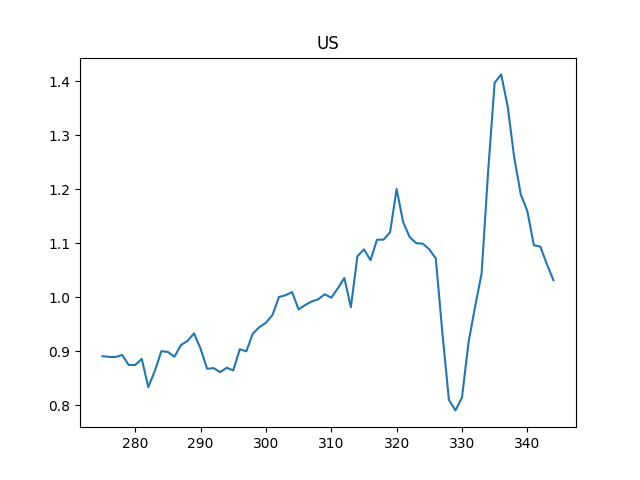
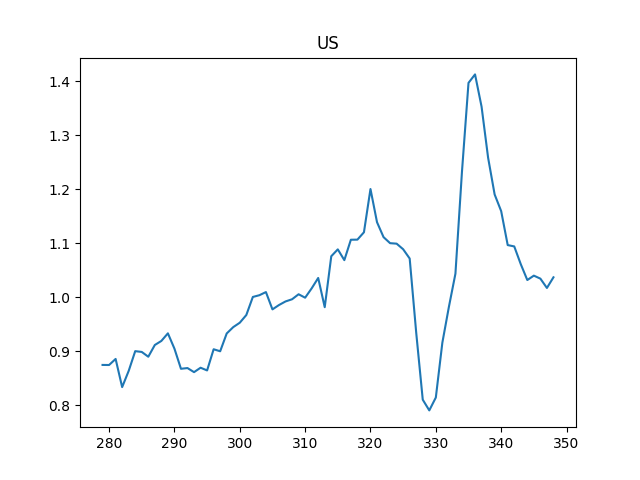
-

diff --git a/en/tweets/2021/week50.md b/en/tweets/2021/week50.md
@@ -1,5 +1,90 @@
 # Week 50
 
+H2 View: "Linde Africa, Hive Hydrogen to develop $4.6bn green ammonia
+production project in South Africa"
+
+---
+
+H2 View: "Peugeot unveils its first hydrogen vehicle"
+
+---
+
+H2 Fuel News: "Full-size hydrogen fuel cell system for ships undergoes
+testing by Kongsberg"
+
+---
+
+H2 Fuel News: "Aurizon, an Australian rail freight operator, is
+working with the Anglo American global mining firm for the purpose of
+using hydrogen powered trains using the miner’s H2 fuel cell
+technology for bulk freight"
+
+---
+
+No, since M4A will cost *less*, it would be deflationary. You'd be
+spending smaller amt for the same (better) service.
+
+---
+
+Pelosi is Number \#15. Small wonder poor gets shafted by Dems
+constantly, they dont even have healthcare. Just look at the Dem SOH.
+
+"Meet the 25 wealthiest members of Congress"
+
+[[-]](https://www.businessinsider.com/wealthiest-members-congress-house-senate-finances-2021-12#15-rep-nancy-pelosi-a-democrat-from-california-46123051-11)
+
+---
+
+Hardball.. 
+
+AP News: "Germany expels Russian diplomats over state-ordered killing"
+
+---
+
+"It's 'game over' for U.S.-listed Chinese companies, global asset
+manager says"
+
+---
+
+"House Votes to Ban Imports From China's Xinjiang on Labor Concern"
+
+---
+
+<blockquote class="twitter-tweet"><p lang="en" dir="ltr">Did carbon dioxide write this <a href="https://t.co/62lt1shKNq">pic.twitter.com/62lt1shKNq</a></p>&mdash; Honey (@benegotherit) <a href="https://twitter.com/benegotherit/status/1470927490461827072?ref_src=twsrc%5Etfw">December 15, 2021</a></blockquote> <script async src="https://platform.twitter.com/widgets.js" charset="utf-8"></script>
+
+---
+
+Assange is an Oz citizen. This is their deputy PM talking.
+
+"'Assange was not in breach of any Australian laws at the time of his
+actions. Assange was not in the US when the event being deliberated in
+a court now in London occurred,' Mr Joyce wrote... 'The question is
+then: Why is he to be extradited to the US? If he insulted the Koran,
+would he be extradited to Saudi Arabia?'"
+
+[[-]](https://www.abc.net.au/news/2021-12-14/barnaby-joyce-opposes-extradition-of-julian-assange/100697630)
+
+---
+
+Corporations know that full well of course; they sponsor and help
+spread the "liberty-centric" message to avoid regulation, increased
+taxes (as they were hit with in Mexico) or outright bans.
+
+---
+
+Some cried foul when authorities (as in NYC muni) tried to clamp down
+on sugar, in soda, in foods, etc, labeling it "government intrusion
+into daily lives". Many forget preferring sugar over fat, than
+creating an env for "exercise nuts" when it didnt work was part of a
+misplaced wave that happened (created) outside them as well, outside
+the control of regular people. They, their parents followed that dumb
+ass shit and ended up here. Now they should not pull out the
+"intrusion" argument in the 11th hour when some are trying to fix the
+problem for them. Many seem to forget they live in a modern world,
+where concentrated, centralized forces roam.
+
+---
+
 H2 Fuel News: "Cummins to build H2 fuel cell innovation center in West
 Sacramento.. The engine manufacturer will be working with 18,000
 square feet of space in California"
@@ -187,9 +272,10 @@ by rises, there'll be return to trend.
 
 ---
 
-But these days ironically Berksh has a lot of cash in hand; cant find
+But these days ironically Berksh has a lot of cash on hand; cant find
 good companies to invest in or cant find any good company that is not
-overvalued? 🤔  Probably the latter. Wilshire Index is through the roof.
+overvalued? 🤔 Probably the latter. Wilshire Index is through the
+roof.
 
 ---
 

diff --git a/en/README.md b/en/README.md
@@ -1,91 +1,6 @@
 <img src="https://drive.google.com/uc?export=view&id=1B2wf9R7AMH1d7Vw6e2mucLbIQ5NSjir7"/>
 
 
-H2 View: "Linde Africa, Hive Hydrogen to develop $4.6bn green ammonia
-production project in South Africa"
-
----
-
-H2 View: "Peugeot unveils its first hydrogen vehicle"
-
----
-
-H2 Fuel News: "Full-size hydrogen fuel cell system for ships undergoes
-testing by Kongsberg"
-
----
-
-H2 Fuel News: "Aurizon, an Australian rail freight operator, is
-working with the Anglo American global mining firm for the purpose of
-using hydrogen powered trains using the miner’s H2 fuel cell
-technology for bulk freight"
-
----
-
-No, since M4A will cost *less*, it would be deflationary. You'd be
-spending smaller amt for the same (better) service.
-
----
-
-Pelosi is Number \#15. Small wonder poor gets shafted by Dems
-constantly, they dont even have healthcare. Just look at the Dem SOH.
-
-"Meet the 25 wealthiest members of Congress"
-
-[[-]](https://www.businessinsider.com/wealthiest-members-congress-house-senate-finances-2021-12#15-rep-nancy-pelosi-a-democrat-from-california-46123051-11)
-
----
-
-Hardball.. 
-
-AP News: "Germany expels Russian diplomats over state-ordered killing"
-
----
-
-"It's 'game over' for U.S.-listed Chinese companies, global asset
-manager says"
-
----
-
-"House Votes to Ban Imports From China's Xinjiang on Labor Concern"
-
----
-
-<blockquote class="twitter-tweet"><p lang="en" dir="ltr">Did carbon dioxide write this <a href="https://t.co/62lt1shKNq">pic.twitter.com/62lt1shKNq</a></p>&mdash; Honey (@benegotherit) <a href="https://twitter.com/benegotherit/status/1470927490461827072?ref_src=twsrc%5Etfw">December 15, 2021</a></blockquote> <script async src="https://platform.twitter.com/widgets.js" charset="utf-8"></script>
-
----
-
-Assange is an Oz citizen. This is their deputy PM talking.
-
-"'Assange was not in breach of any Australian laws at the time of his
-actions. Assange was not in the US when the event being deliberated in
-a court now in London occurred,' Mr Joyce wrote... 'The question is
-then: Why is he to be extradited to the US? If he insulted the Koran,
-would he be extradited to Saudi Arabia?'"
-
-[[-]](https://www.abc.net.au/news/2021-12-14/barnaby-joyce-opposes-extradition-of-julian-assange/100697630)
-
----
-
-Corporations know that full well of course; they sponsor and help
-spread the "liberty-centric" message to avoid regulation, increased
-taxes (as they were hit with in Mexico) or outright bans.
-
----
-
-Some cried foul when authorities (as in NYC muni) tried to clamp down
-on sugar, in soda, in foods, etc, labeling it "government intrusion
-into daily lives". Many forget preferring sugar over fat, than
-creating an env for "exercise nuts" when it didnt work was part of a
-misplaced wave that happened (created) outside them as well, outside
-the control of regular people. They, their parents followed that dumb
-ass shit and ended up here. Now they should not pull out the
-"intrusion" argument in the 11th hour when some are trying to fix the
-problem for them. Many seem to forget they live in a modern world,
-where concentrated, centralized forces roam.
-
----
-
 ## For Members
 
 [Link](https://thirdwave-members.herokuapp.com)

diff --git a/en/2020/02/corona.md b/en/2020/02/corona.md
@@ -80,7 +80,7 @@ US Daily Deaths, 7-Day Moving Average
 ```python
 import util, pandas as pd
 df = util.get_data_combined()
-df1 = df[(df['Country/Region']=='US')&(df.index > '2021-01-01')]
+df1 = df[(df['Country/Region']=='US')&(df.index > '2020-01-01')]
 df1['New deaths'] = df1['New deaths'].rolling(7).mean()
 df1['New deaths'].plot()
 plt.savefig('US-deaths.png')
@@ -113,11 +113,11 @@ plt.savefig('Rt-US.png')
 ```
 
 ```text
-340    1.159938
-341    1.096621
-342    1.094055
-343    1.061337
-344    1.031886
+344    1.032196
+345    1.040330
+346    1.034771
+347    1.017527
+348    1.037248
 Name: 1, dtype: float64
 ```
 
